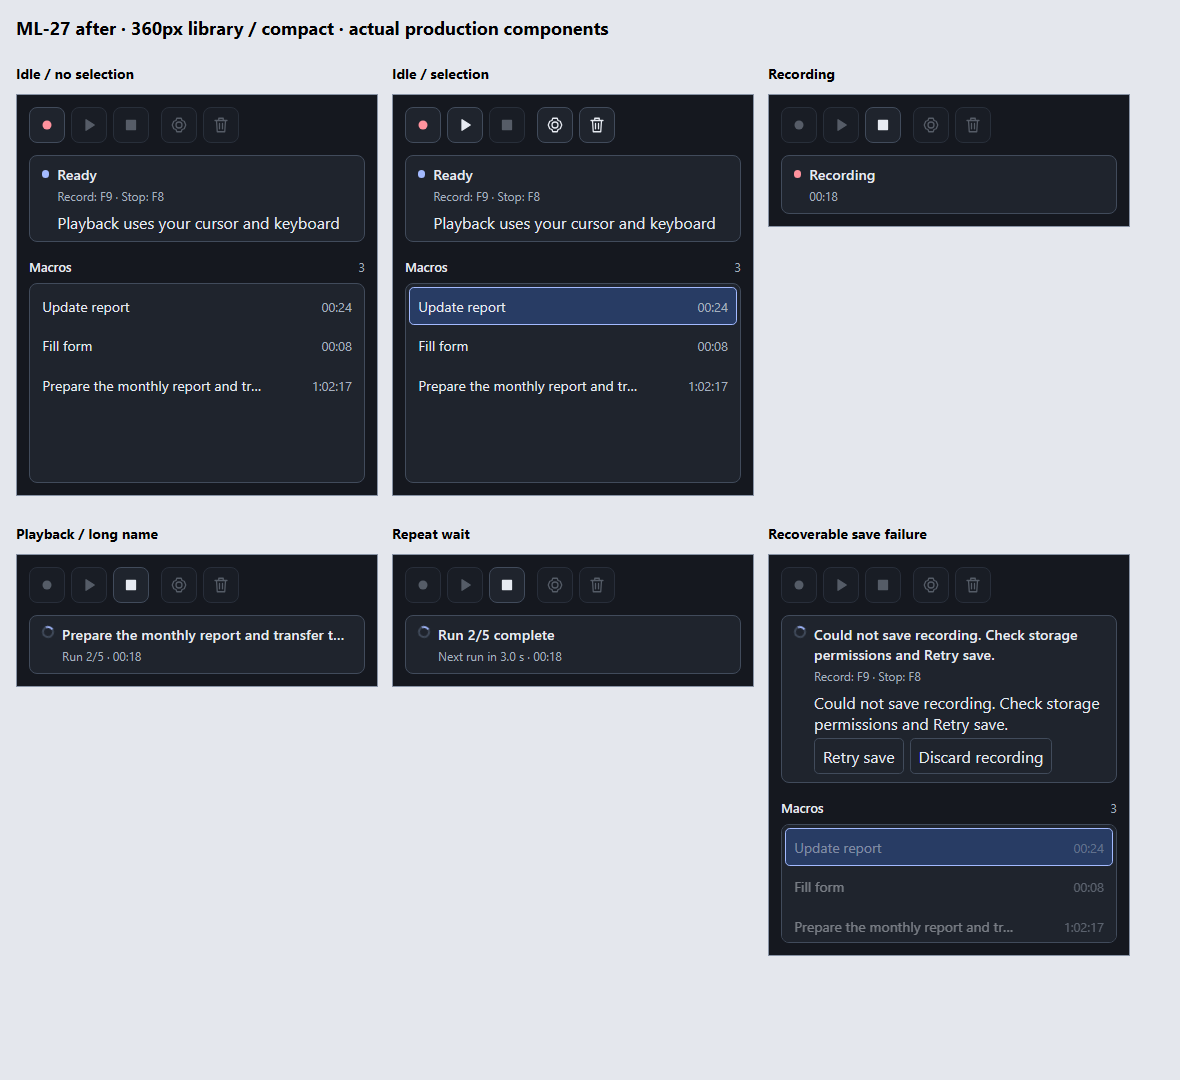
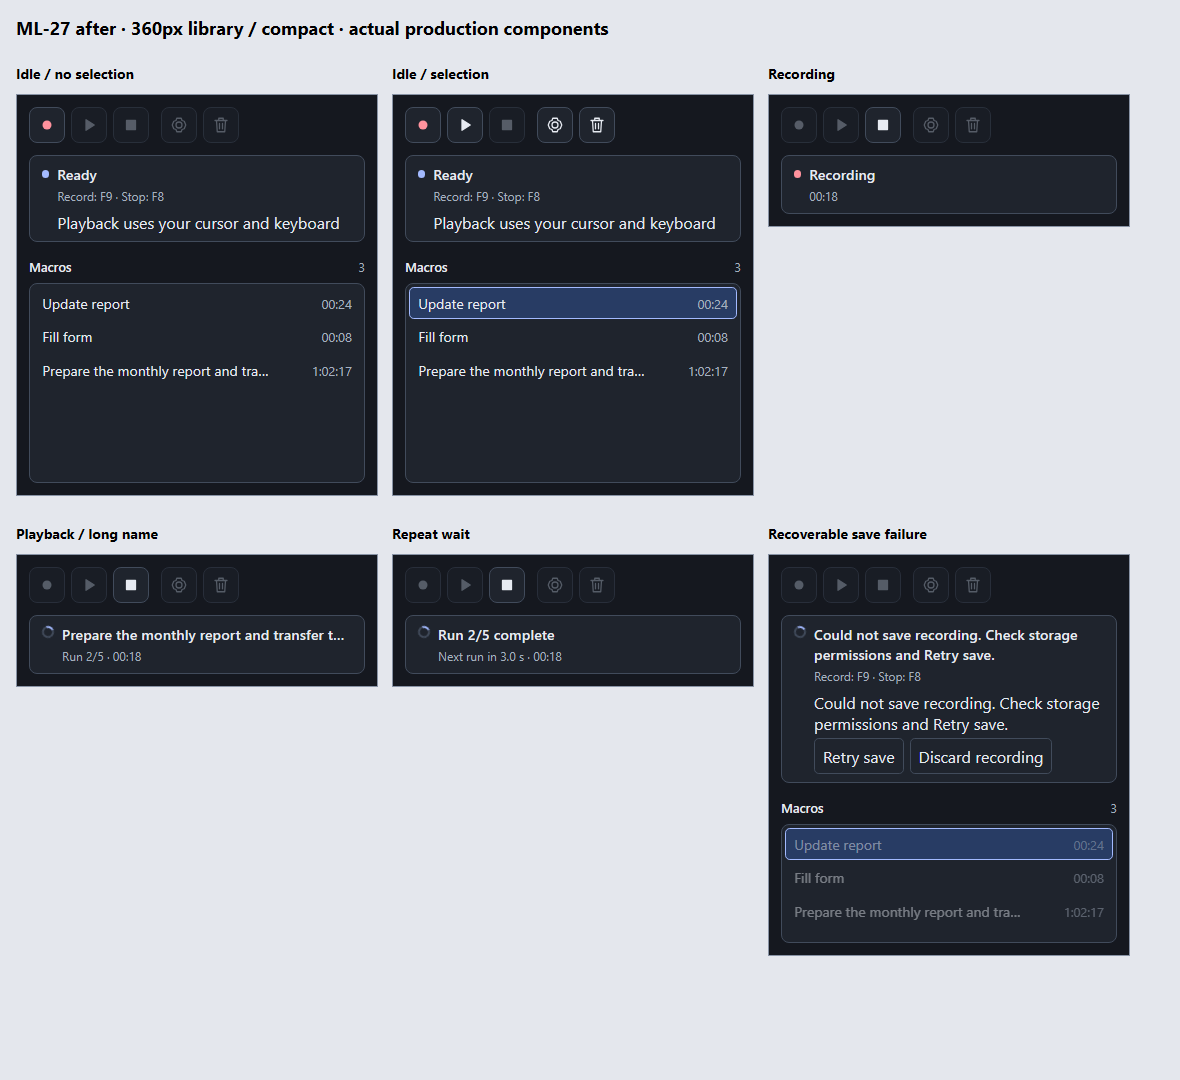
ML-27 Reduce macro list row height (#46)

diff --git a/app/src/style.css b/app/src/style.css
@@ -12,13 +12,14 @@
   --hover: #f0f3f8;
   --danger: #b02b39;
   --success: #216843;
-  /* Density tokens at a 16px root: 4/6/8/12px spacing, 36px controls,
-     and 18px toolbar icons. Rem units retain text scaling; typography is unchanged. */
+  /* Density tokens at a 16px root: 4/6/8/12px spacing, 36px main controls,
+     30px row controls, and 18px toolbar icons. Rem units retain text scaling. */
   --space-label: 0.25rem;
   --space-control: 0.375rem;
   --space-inline: 0.5rem;
   --space-panel: 0.75rem;
   --control-size: 2.25rem;
+  --macro-row-control-size: 1.875rem;
   --toolbar-icon-size: 1.125rem;
   /* Reserve one row, its heading, and list padding when small windows need scrolling. */
   --library-min-height: calc(var(--control-size) + 3rem);
@@ -255,13 +256,13 @@ svg {
   margin-top: 0.1rem;
 }
 .macro-row {
-  --rename-pencil-size: var(--control-size);
+  --rename-pencil-size: var(--macro-row-control-size);
   position: relative;
   width: 100%;
   display: grid;
   grid-template-columns: minmax(0, 1fr) var(--rename-pencil-size) max-content;
   align-items: center;
-  min-height: var(--control-size);
+  min-height: var(--macro-row-control-size);
   gap: var(--space-control);
   padding: 0 var(--space-inline);
   border: 1px solid transparent;

diff --git a/docs/validation/ML-27-ui-density.md b/docs/validation/ML-27-ui-density.md
@@ -26,19 +26,21 @@ Tokens live in `app/src/style.css` and are reused by `configure.css` and
 `rename.css`. Values below assume the default 16px root. Rem units scale with text;
 font sizes, theme colors, and focus indicators are retained.
 
-| Token                  | Value                 | Use                                      |
-| ---------------------- | --------------------- | ---------------------------------------- |
-| `--space-label`        | 0.25rem / 4px         | Label/field and hint spacing             |
-| `--space-control`      | 0.375rem / 6px        | Toolbar gaps, vertical control padding   |
-| `--space-inline`       | 0.5rem / 8px          | Horizontal input padding, inline gaps    |
-| `--space-panel`        | 0.75rem / 12px        | Panel padding and field-group spacing    |
-| `--control-size`       | 2.25rem / 36px        | Toolbar buttons and minimum field height |
-| `--toolbar-icon-size`  | 1.125rem / 18px       | Toolbar glyphs only                      |
-| `--library-min-height` | Control + 3rem / 84px | One library row, heading, and padding    |
+| Token                      | Value                 | Use                                      |
+| -------------------------- | --------------------- | ---------------------------------------- |
+| `--space-label`            | 0.25rem / 4px         | Label/field and hint spacing             |
+| `--space-control`          | 0.375rem / 6px        | Toolbar gaps, vertical control padding   |
+| `--space-inline`           | 0.5rem / 8px          | Horizontal input padding, inline gaps    |
+| `--space-panel`            | 0.75rem / 12px        | Panel padding and field-group spacing    |
+| `--control-size`           | 2.25rem / 36px        | Toolbar buttons and minimum field height |
+| `--macro-row-control-size` | 1.875rem / 30px       | Compact library rows and rename targets  |
+| `--toolbar-icon-size`      | 1.125rem / 18px       | Toolbar glyphs only                      |
+| `--library-min-height`     | Control + 3rem / 84px | One library row, heading, and padding    |
 
 The extra Configure toolbar separator is also 6px. Library rows retain stable-ID
-selection and ellipsis/full accessible names. Their rename target is 36px; row
-height includes its border. Inline rename Save/Cancel controls are also 36px.
+selection and ellipsis/full accessible names. Their rename target is 30px, giving
+32px rows including the normal border, reduced from 38px at the owner's request.
+Inline rename editing fields and Save/Cancel controls remain 36px.
 Recovery, context-menu, and delete-dialog controls share the same spacing scale.
 Toast glyphs and dismiss-button padding explicitly retain their earlier sizes.
 
@@ -146,6 +148,21 @@ across index/worktree snapshots with zero failures. Standards and Spec follow-up
 reviews have no remaining new findings; native acceptance evidence remains open.
 The follow-up result is recorded in the
 [issue validation comment](https://github.com/Dzahc/MacroLoom/issues/46#issuecomment-6404495243).
+
+## Shorter library rows follow-up
+
+The owner requested a further reduction in macro-list item height. A dedicated
+30px row-control token reduces the ordinary bordered row from 38px to 32px;
+the name text remains 14px and the rename glyph remains 16px. Toolbar, form,
+and inline editing controls keep their 36px minimum.
+
+Nine visible rows rendered with production components/CSS measured 38px before
+and 32px afterward. The refreshed after image above and all 96 audit cases pass.
+The button-size audit permits 30px only for row-selection and rename-pencil
+targets; other controls retain the 36px minimum. Standards and Spec reviews have
+no findings for this adjustment. `npm.cmd --prefix app run verify` passed with
+exit code 0 and all 14 checks passing, including 105 frontend/tooling tests and
+the Rust/Python suites; no TS/Rust functions changed relative to refreshed develop.
 
 ## Native observations still required
 
